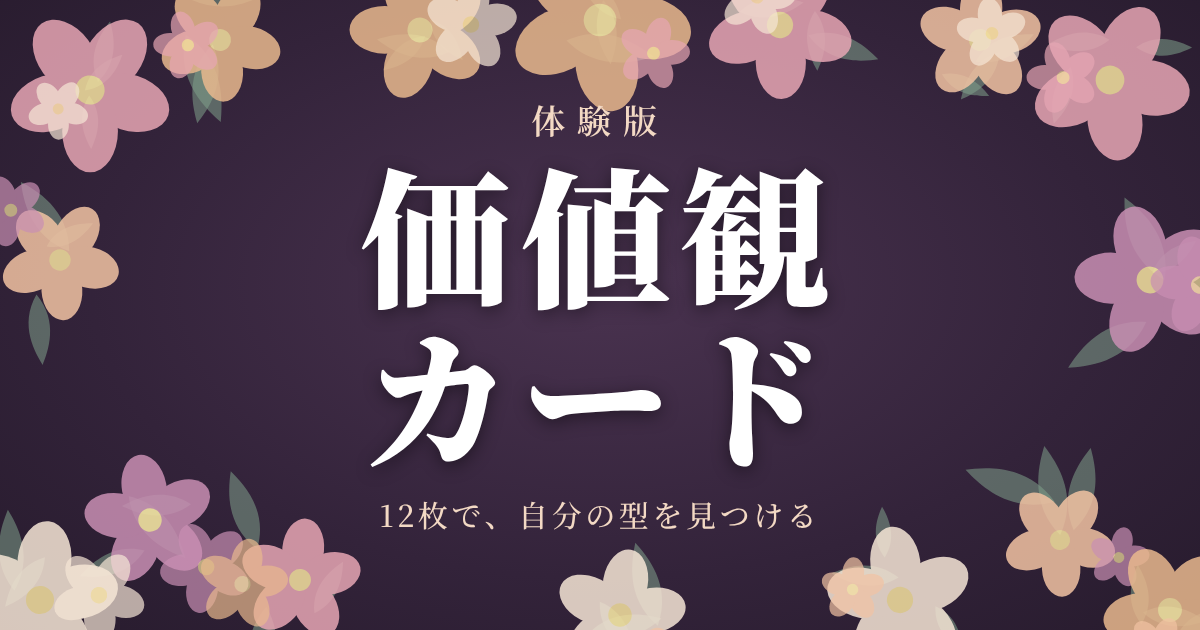
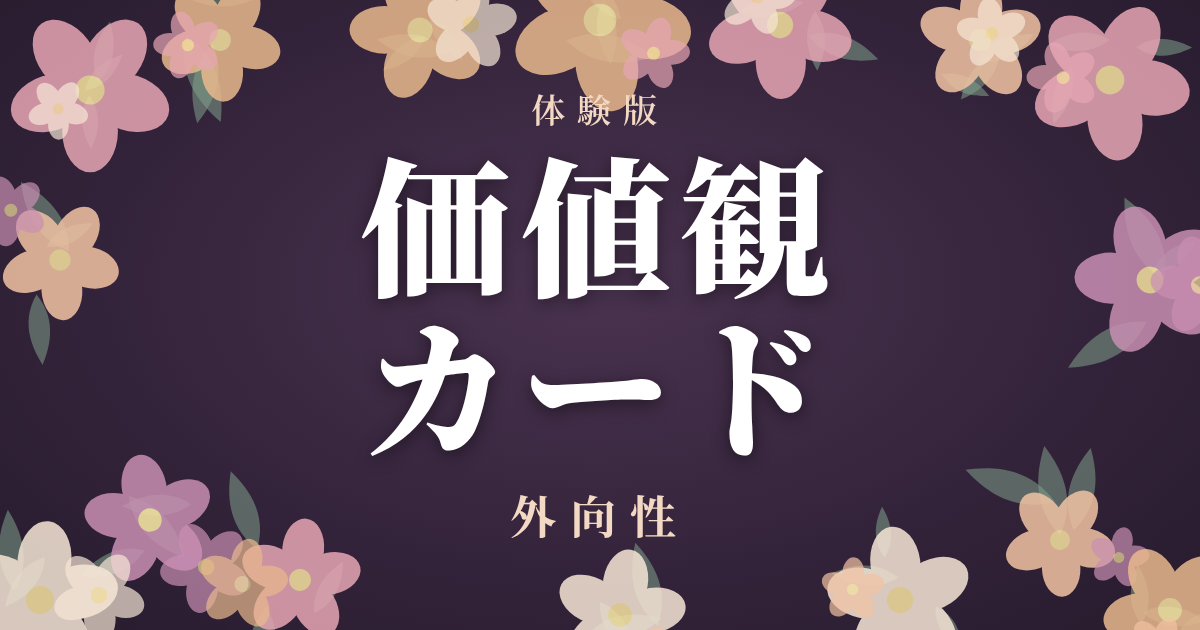
リンクカード：題を「価値観カード（外向性）」に、画像の下の文字を「外向性」にする
Claude-Session: https://claude.ai/code/session_01GkzFGyc8r3iHUrbzgQ8Y55

diff --git a/index.html b/index.html
@@ -5,9 +5,9 @@
 <meta name="viewport" content="width=device-width,initial-scale=1,viewport-fit=cover">
 <meta name="robots" content="noindex,nofollow">
 <meta name="description" content="12枚のカードで、自分の型と、カードを1点動かすと型がどう変わるかを見られる無料の体験版です。診断ではなく、平均的な人とも比べません。">
-<title>価値観カード 体験版</title>
+<title>価値観カード（外向性）</title>
 <meta property="og:type" content="website">
-<meta property="og:title" content="価値観カード 体験版">
+<meta property="og:title" content="価値観カード（外向性）">
 <meta property="og:description" content="12枚のカードで、自分の型と、カードを1点動かすと型がどう変わるかを見られる無料の体験版です。診断ではなく、平均的な人とも比べません。">
 <meta property="og:url" content="https://n-nakagaki2025.github.io/kachikan-trial/">
 <meta property="og:image" content="https://n-nakagaki2025.github.io/kachikan-trial/ogp.png">
